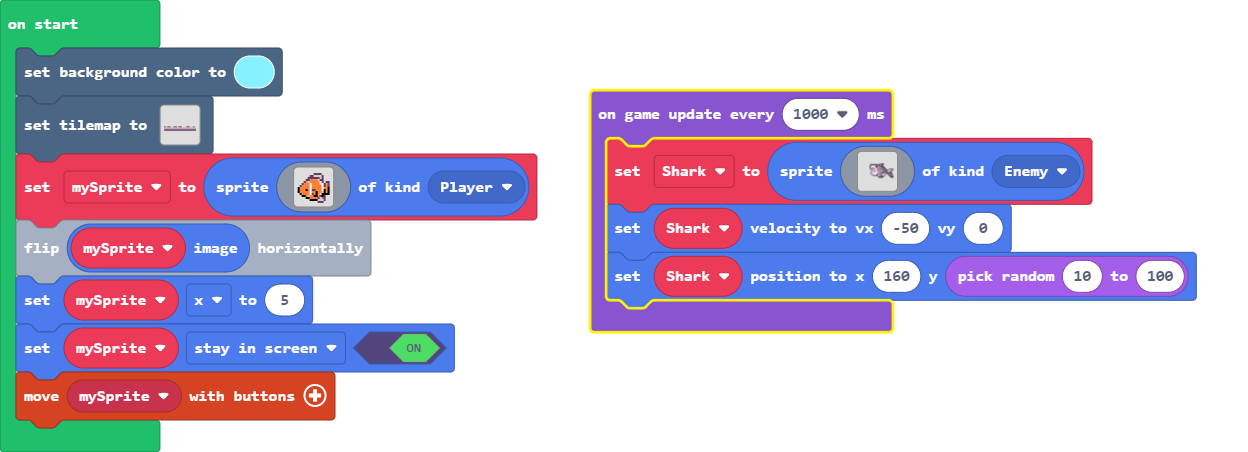
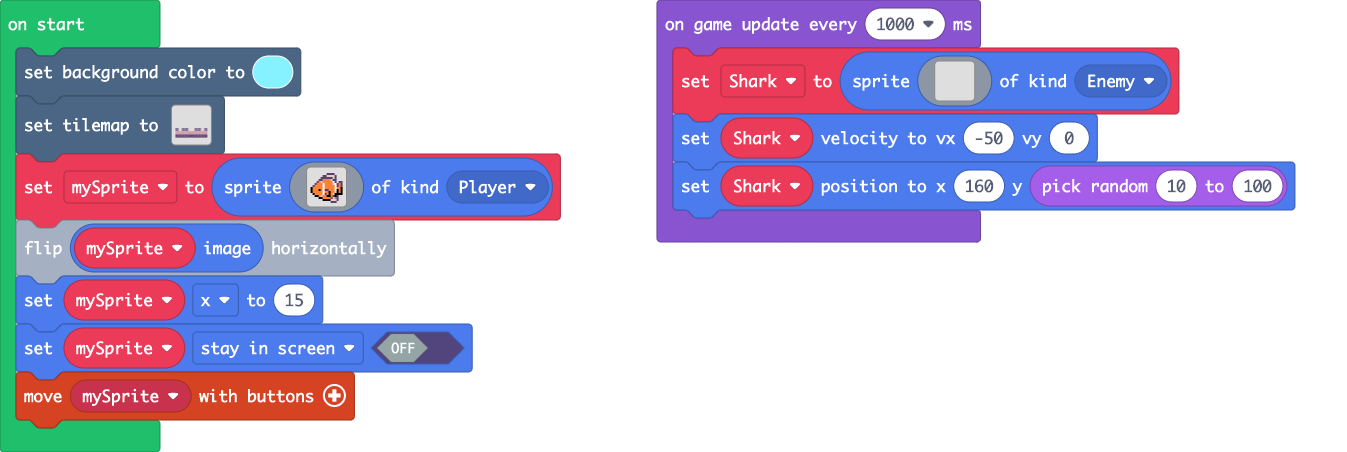
Update main.blocks, main.ts

diff --git a/main.ts b/main.ts
@@ -32,7 +32,7 @@ let mySprite = sprites.create(img`
     . . . . . . . . . . c c c . . . 
     `, SpriteKind.Player)
 mySprite.image.flipX()
-mySprite.x = 5
+mySprite.x = 15
 mySprite.setFlag(SpriteFlag.StayInScreen, false)
 controller.moveSprite(mySprite)
 game.onUpdateInterval(1000, function () {
